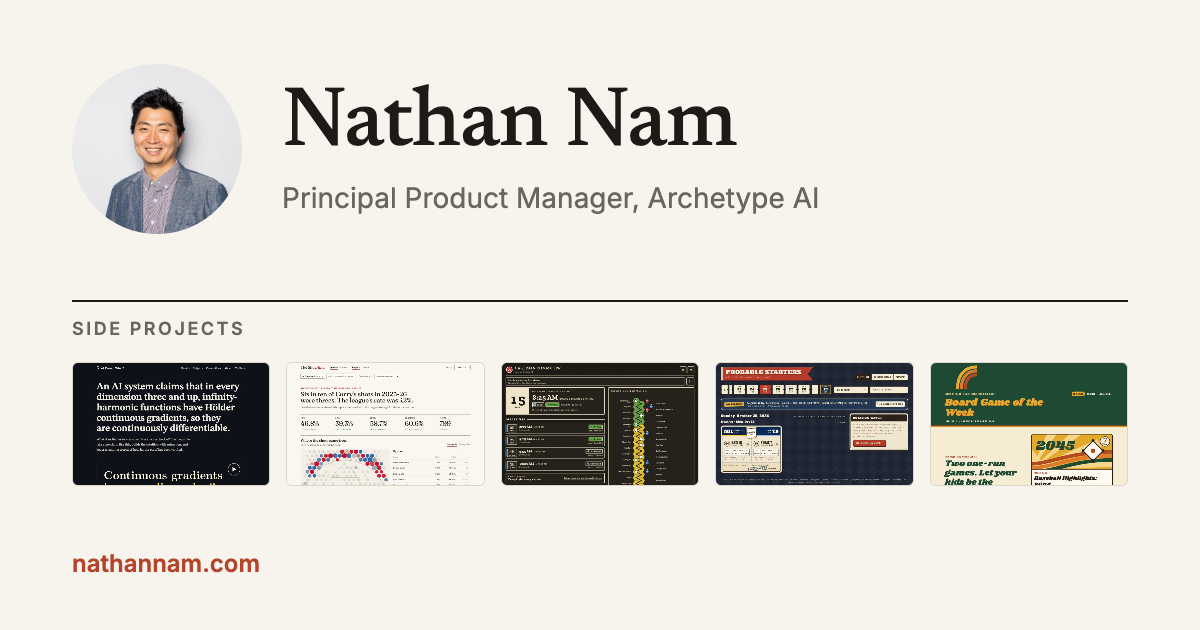
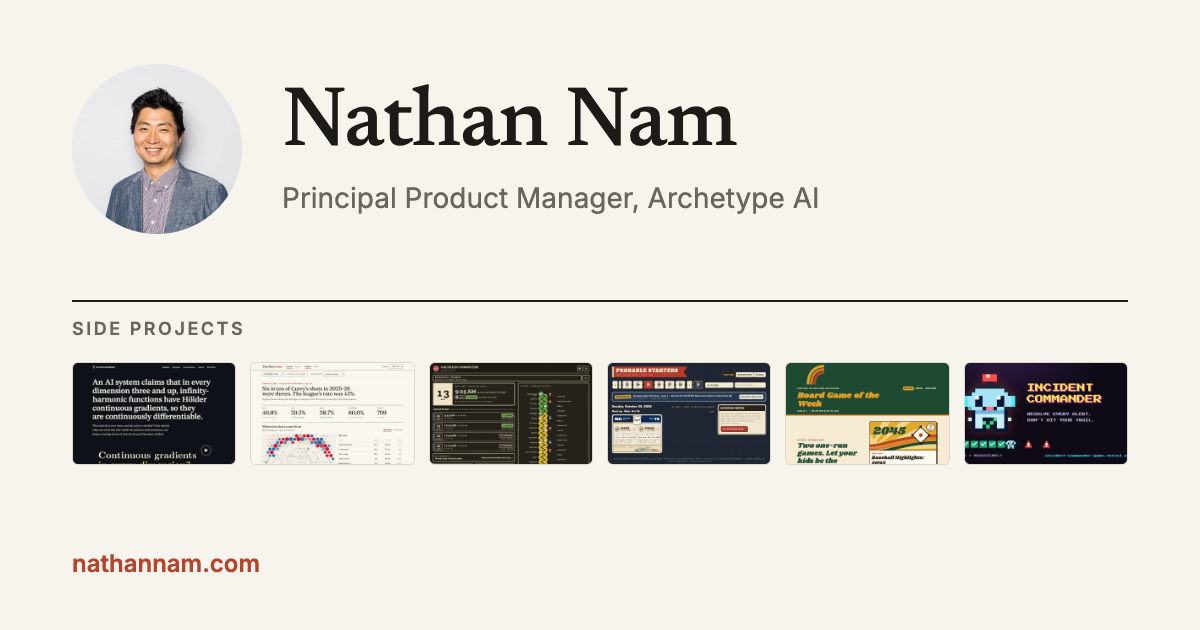
Add Incident Commander to the side projects
Its card uses the game's share image ("shot": "og"), since a screenshot of the
narrow cabinet is mostly background. The share image now fits any number of
projects in one row.

Changed region(s): [[0.0617, 0.573, 0.9558, 0.7841]]

diff --git a/README.md b/README.md
@@ -9,7 +9,7 @@ My personal website: a short profile and the side projects I build and keep runn
 One static page, built with [Astro](https://astro.build) and served by Vercel.
 
 - `src/pages/index.astro`: the page (bio, links, styles).
-- `src/data/projects.json`: the side projects. Add one here, then rerun `npm run brand -- --shots`.
+- `src/data/projects.json`: the side projects. Add one here, then rerun `npm run brand -- --shots`. A project with `"shot": "og"` uses its own share image as the card instead of a screenshot (good for narrow pages like a game).
 - `src/data/site.mjs`: the site's address, used for the share tags and the share image.
 - `scripts/brand/make.mjs`: regenerates the project screenshots, the favicon set and the 1200×630 share image (`public/og.png`). Needs Google Chrome and `npm i --no-save puppeteer-core@23.11.1`.
 
